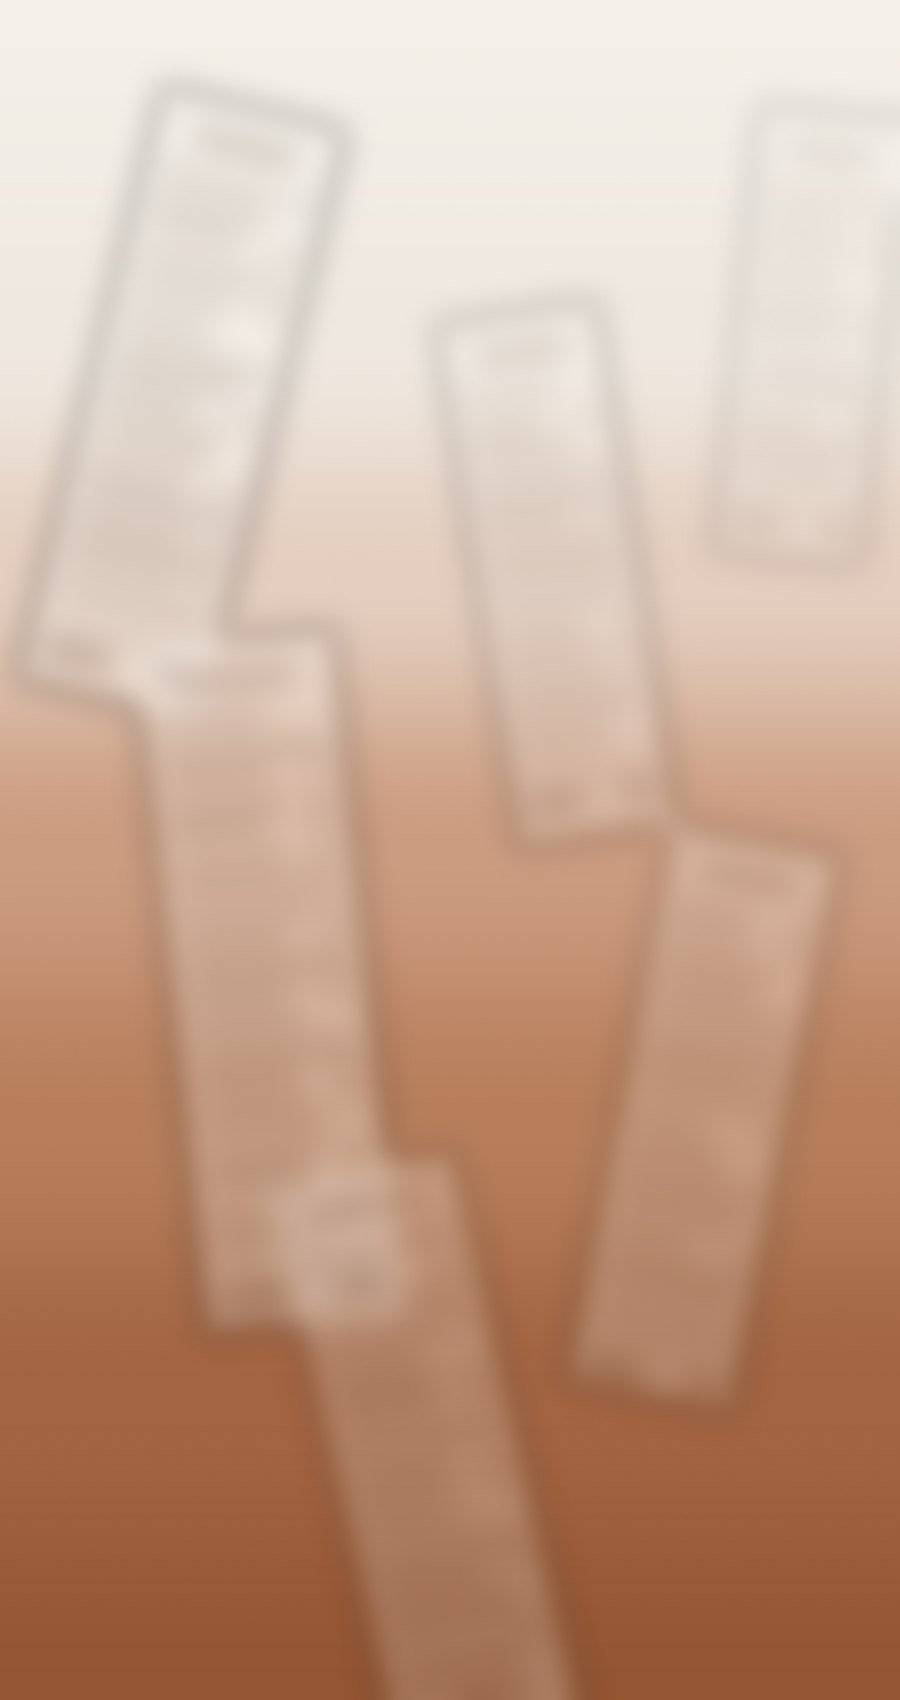
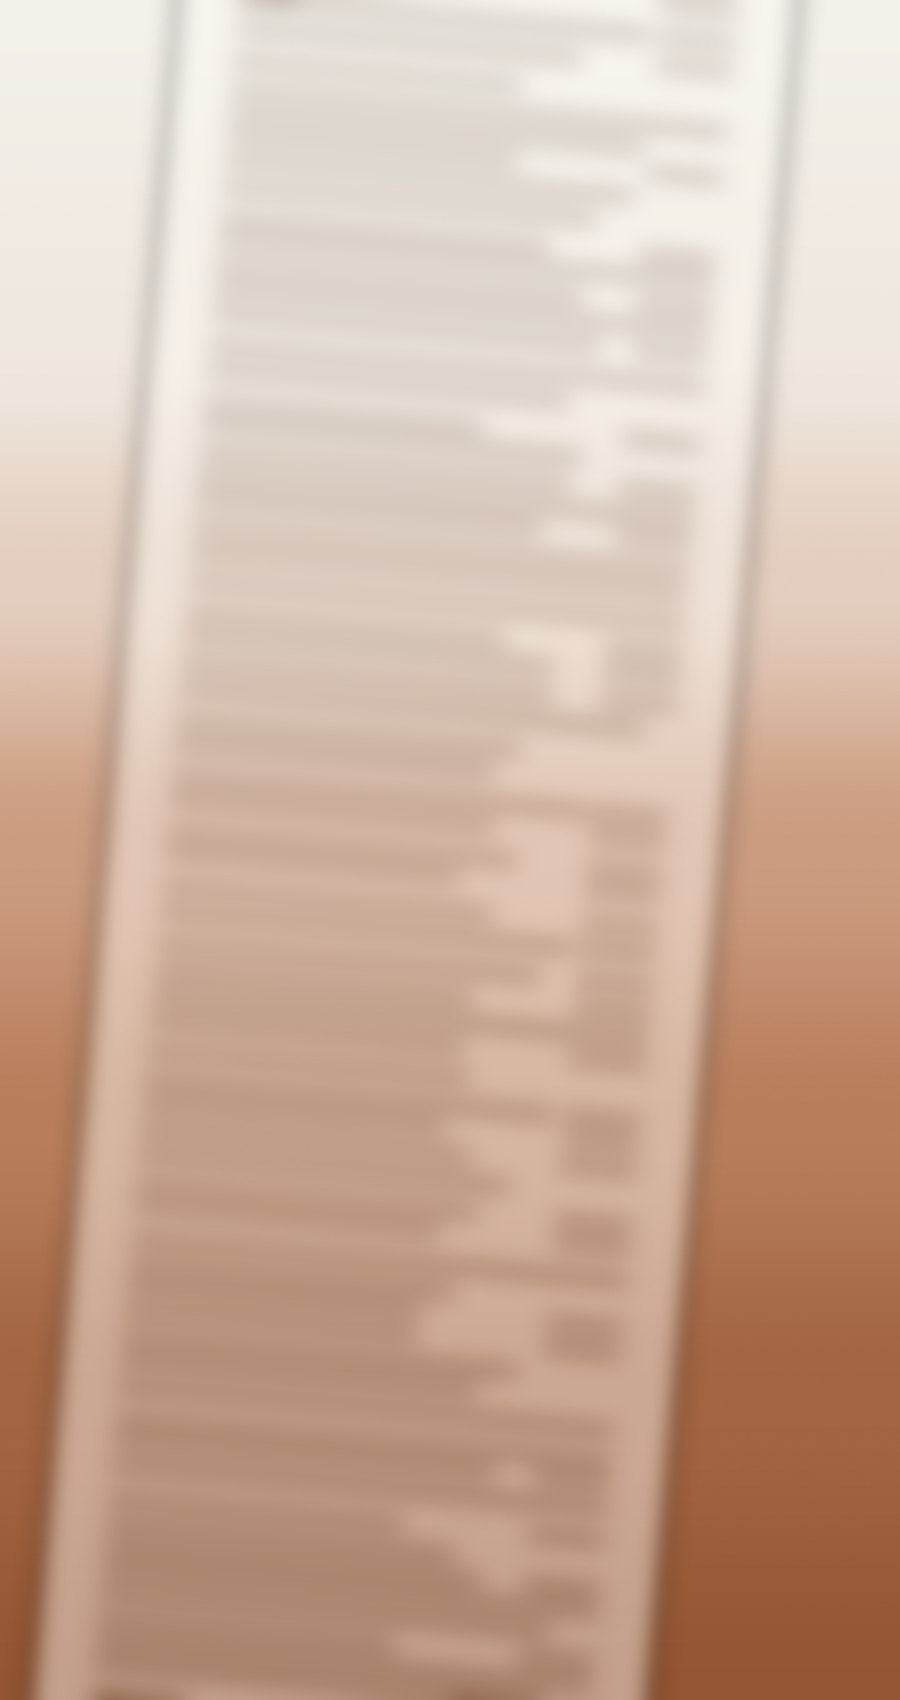
One large receipt on the sign-in panel, not a scatter of small ones
Several slips read as a pile of paper; a single one cropped by the panel
edges reads as a photograph of a receipt - the subject, rather than a
pattern made from it. Bleeding past the top and bottom is what makes it
look framed rather than floating, and one large subject holds its detail
at a softer blur, so the ruled lines survive as texture.

The scrim went from 0.42 to 0.52 because of it: those ruled lines are
lighter than the gradient they replaced, and the lightest pixel under the
copy measured 4.59:1 - passing, but with no margin on a texture that
varies. 5.63:1 now.

diff --git a/apps/web/src/pages/AuthPage.tsx b/apps/web/src/pages/AuthPage.tsx
@@ -113,8 +113,11 @@ export function AuthPage() {
           A scrim, so the copy does not depend on where the gradient happens to
           crop. Measured on the artwork itself: the muted token this text used to
           wear ran 1.14:1 - invisible - and plain white is only 3.87:1 at the pale
-          end of the panel, which fails AA on a short window. Over this it is
-          7.4:1 everywhere.
+          end of the panel, which fails AA on a short window.
+          Re-measured against the receipt backdrop, whose ruled lines are lighter
+          than the gradient was: at 0.42 the LIGHTEST pixel under the copy gave
+          4.59:1 - passing, but with no margin on a texture that varies. 0.52
+          takes the worst case to 5.63:1.
         */}
         {/*
           The same ripples as the app's own rail. The panel was not too WIDE so
@@ -128,7 +131,7 @@ export function AuthPage() {
           inset="0"
           bgGradient="to-b"
           gradientFrom="rgba(34,28,22,0.10)"
-          gradientTo="rgba(34,28,22,0.42)"
+          gradientTo="rgba(34,28,22,0.52)"
           pointerEvents="none"
         />
         <Stack position="absolute" inset="0" p="9" justify="space-between">
